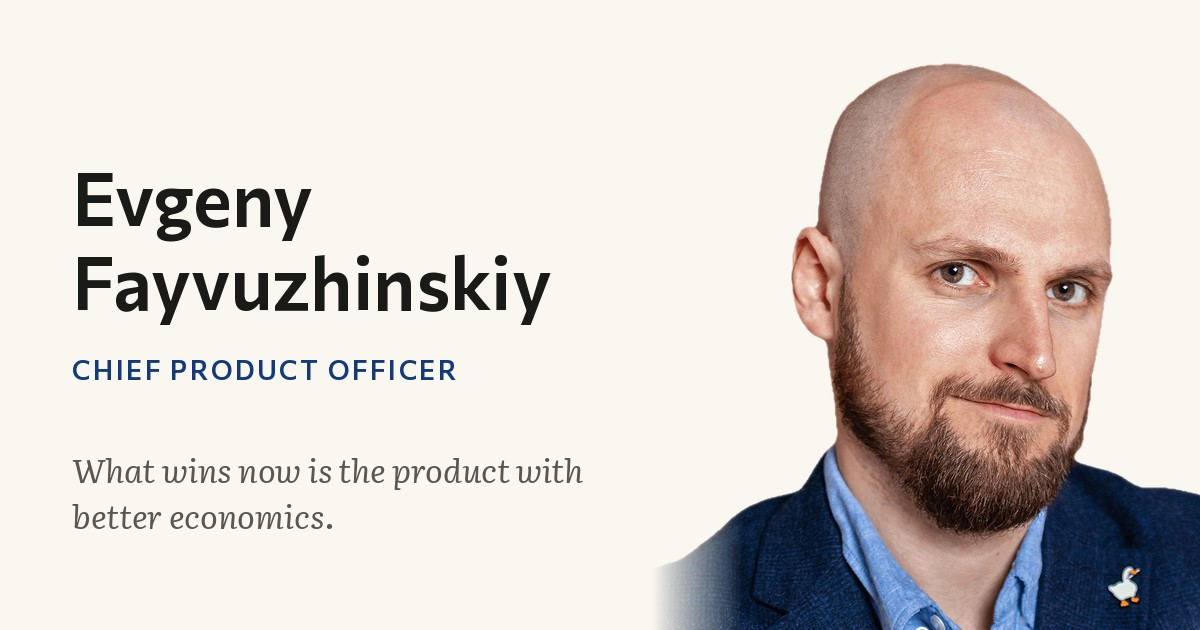
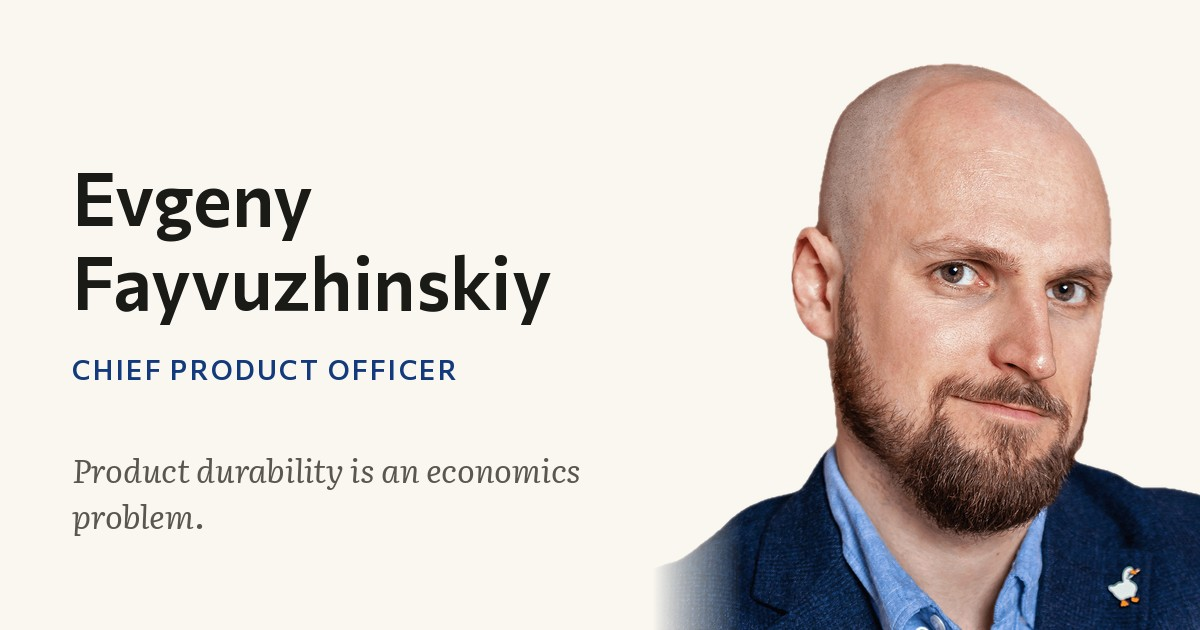
Content + POV + AEO pass: add Point of view, calibrate claims, fix facts
- Add "02 · Point of view" section (forward thesis: product durability =
  an economics problem) — closes the no-direction gap; renumber sections.
- Profile: keystone recalibrated to "I set how the wider company decides
  which bets earn a rigorous test vs a fast, argued call" (originated-the-
  approach; back-channel-safe) + de-listed 5 stacked claims to 3.
- Trajectory CPO: fix "five streams" (named four) -> product end to end
  (5 lifecycle streams + functional teams); "2026" -> "2025 - Now" to match
  LinkedIn; reframe caretaker read into a deliberate judgment call.
- How I lead: recut the business-model principle to stop duplicating the
  new POV block (tune-vs-swap-the-engine judgment).
- JSON-LD: canonical @id + @graph (Person/Organization/WebSite).
- robots.txt: explicit allow for AI retrieval crawlers.
- og.jpg: new tagline "Product durability is an economics problem."

Changed region(s): [[0.0617, 0.7238, 0.4933, 0.8444]]

diff --git a/index.html b/index.html
@@ -190,13 +190,20 @@ footer{margin-top:var(--s9); border-top:1px solid var(--hairline); padding-top:v
     <div class="rail"><span class="num tnum">01</span><h2 class="kicker">Profile</h2></div>
     <div class="content">
       <p>Eight years at <span class="lnum">Space307</span> &mdash; a trading platform for emerging markets across Asia and the Middle East &mdash; I priced the risk and built the monetization function before I ran product. It taught me to read a product through its economics, and to respect how hard the craft under it is.</p>
-      <p>My strongest work is the org. I rebuilt how my department decides: quicker, cheaper, evidence over opinion. I helped the wider company get deliberate about which bets earn rigor and which earn speed. When the call has to come before the data is clean, I make it and own it.</p>
-      <p>I shaped the strategy the company runs on, and I lead by winning over people who don&rsquo;t report to me. The work I&rsquo;m proudest of is the people who outgrew the roles I gave them. I don&rsquo;t confuse motion with progress. I&rsquo;d rather name a hard problem early than paper over it.</p>
+      <p>My strongest work is the org. I rebuilt how my department decides: quicker, cheaper, evidence over opinion. And I set how the wider company now decides which bets earn a rigorous test and which earn a fast, argued call &mdash; rigor where it&rsquo;s measurable, judgment where it isn&rsquo;t. When a call has to come before the data is clean, I make it and put my name on it.</p>
+      <p>I shaped the product strategy the company runs on, and most of what I lead I don&rsquo;t manage &mdash; people follow the argument, not the title. The work I&rsquo;m proudest of is the leads who outgrew the roles I first handed them. I&rsquo;ll name a hard problem early, in plain words, rather than let it sit behind a clean status report.</p>
     </div>
   </section>
 
   <section class="section">
-    <div class="rail"><span class="num tnum">02</span><h2 class="kicker">Trajectory</h2></div>
+    <div class="rail"><span class="num tnum">02</span><h2 class="kicker">Point of view</h2></div>
+    <div class="content">
+      <p>A conviction I build and hire against: product durability is an economics problem before it&rsquo;s a feature problem. In a category like this one &mdash; regulation tightening, growth getting expensive &mdash; the products that last are the ones whose unit economics still work once the easy wins are gone. I&rsquo;d rather get the money model right than repaint the funnel.</p>
+    </div>
+  </section>
+
+  <section class="section">
+    <div class="rail"><span class="num tnum">03</span><h2 class="kicker">Trajectory</h2></div>
     <div class="content">
       <div class="stage">
         <span class="years tnum">2017&ndash;2022</span>
@@ -209,25 +216,25 @@ footer{margin-top:var(--s9); border-top:1px solid var(--hairline); padding-top:v
         <p>Monetization wasn&rsquo;t a function yet. Leadership carved it out and asked me to build it &mdash; I did, from scratch: instrument pricing and risk, partner-network economics, retention, and the team of quants and analysts that runs it today. This is also where I moved from doing the analysis to leading the people who do it, and where I shaped the product strategy the company now runs on.</p></div>
       </div>
       <div class="stage">
-        <span class="years tnum">2026&thinsp;&ndash;&thinsp;Now</span>
+        <span class="years tnum">2025&thinsp;&ndash;&thinsp;Now</span>
         <div><p class="role">Chief Product Officer</p>
-        <p>I own product across five streams &mdash; management, design, research, and monetization &mdash; and sit on the company&rsquo;s management team. My predecessor left a well-built org; I kept its structure and am putting my weight on the operating model: faster, cheaper, evidence-first decisions. I came to the seat from the numbers, so every roadmap review starts in the unit economics.</p></div>
+        <p>I own product end to end &mdash; five delivery streams across the product&rsquo;s lifecycle, plus the functional teams for monetization, design, and research &mdash; and sit on the company&rsquo;s management team. The org I inherited was well-built, so I didn&rsquo;t spend my first year reorganizing it; I put my weight where the leverage was &mdash; how it decides. The operating model runs faster and cheaper now, and every roadmap review starts in the unit economics.</p></div>
       </div>
     </div>
   </section>
 
   <section class="section">
-    <div class="rail"><span class="num tnum">03</span><h2 class="kicker">How I lead</h2></div>
+    <div class="rail"><span class="num tnum">04</span><h2 class="kicker">How I lead</h2></div>
     <div class="content">
       <div class="principle"><h3>The constraint is never where it was last quarter.</h3><p>I moved a product org off measuring everything toward fast, cheap, evidence-first bets. When the bottleneck moved from shipping to deciding, I moved it again.</p></div>
       <div class="principle"><h3>The model is a tool, not a verdict.</h3><p>My quant years taught me to read the numbers as evidence, not a ruling. The job is separating the bets that compound in the economics from the ones that just demo well.</p></div>
       <div class="principle"><h3>The people calls are the ones to get right.</h3><p>I make them early and honestly. I treat the person leaving with as much care as the team staying, and own the call plainly instead of hiding behind process.</p></div>
-      <div class="principle"><h3>Think in business models before features.</h3><p>Repainting the funnel isn&rsquo;t strategy. What matters is how the money is actually made, and where regulation is heading. That&rsquo;s what tells you when to swap the engine and when to tune it.</p></div>
+      <div class="principle"><h3>Know when to tune the engine and when to swap it.</h3><p>Most of the work is tuning how the money gets made. The judgment that earns its keep is spotting early &mdash; from where regulation and the market are heading &mdash; the moment tuning stops paying and the engine itself has to change.</p></div>
     </div>
   </section>
 
   <section class="section">
-    <div class="rail"><span class="num tnum">04</span><h2 class="kicker">Contact</h2></div>
+    <div class="rail"><span class="num tnum">05</span><h2 class="kicker">Contact</h2></div>
     <div class="content">
       <div class="contact">
         <span class="ci"><svg viewBox="0 0 24 24" aria-hidden="true"><path d="M19 3a2 2 0 0 1 2 2v14a2 2 0 0 1-2 2H5a2 2 0 0 1-2-2V5a2 2 0 0 1 2-2h14m-.5 15.5v-5.3a3.26 3.26 0 0 0-3.26-3.26c-.85 0-1.84.52-2.32 1.3v-1.11h-2.79v8.37h2.79v-4.93c0-.77.62-1.4 1.39-1.4a1.4 1.4 0 0 1 1.4 1.4v4.93h2.79M6.88 8.56a1.68 1.68 0 0 0 1.68-1.68c0-.93-.75-1.69-1.68-1.69a1.69 1.69 0 0 0-1.69 1.69c0 .93.76 1.68 1.69 1.68m1.39 9.94v-8.37H5.5v8.37h2.77z"/></svg><a href="https://www.linkedin.com/in/evgeny-fayvuzhinskiy/">linkedin.com/in/evgeny-fayvuzhinskiy</a></span>
@@ -244,7 +251,11 @@ footer{margin-top:var(--s9); border-top:1px solid var(--hairline); padding-top:v
 </main>
 
 <script type="application/ld+json">
-{"@context":"https://schema.org","@type":"Person","name":"Evgeny Fayvuzhinskiy","alternateName":["Евгений Файвужинский","Evgenii Faivuzhinskii","Evgeny Faivuzhinskiy","Yevgeny Fayvuzhinskiy"],"jobTitle":"Chief Product Officer","description":"Chief Product Officer at Space307, a global trading platform serving emerging markets. A product executive who came up the quantitative side of fintech and reads product through its economics.","image":"https://euf.github.io/headshot.png","worksFor":{"@type":"Organization","name":"Space307"},"alumniOf":[{"@type":"CollegeOrUniversity","name":"European University at St. Petersburg"},{"@type":"CollegeOrUniversity","name":"HSE University"}],"knowsAbout":["product management","monetization","product economics","pricing","unit economics","risk modeling","trading products","retention","organizational design"],"url":"https://euf.github.io","address":{"@type":"PostalAddress","addressLocality":"Limassol","addressCountry":"CY"},"sameAs":["https://www.linkedin.com/in/evgeny-fayvuzhinskiy/"]}
+{"@context":"https://schema.org","@graph":[
+{"@type":"Person","@id":"https://euf.github.io/#person","name":"Evgeny Fayvuzhinskiy","alternateName":["Евгений Файвужинский","Evgenii Faivuzhinskii","Evgeny Faivuzhinskiy","Yevgeny Fayvuzhinskiy"],"jobTitle":"Chief Product Officer","description":"Chief Product Officer at Space307, a global trading platform serving emerging markets. A product executive who came up the quantitative side of fintech and reads product through its economics.","image":"https://euf.github.io/headshot.png","worksFor":{"@id":"https://euf.github.io/#space307"},"alumniOf":[{"@type":"CollegeOrUniversity","name":"European University at St. Petersburg"},{"@type":"CollegeOrUniversity","name":"HSE University"}],"knowsAbout":["product management","monetization","product economics","pricing","unit economics","risk modeling","trading products","retention","organizational design"],"url":"https://euf.github.io/","address":{"@type":"PostalAddress","addressLocality":"Limassol","addressCountry":"CY"},"sameAs":["https://www.linkedin.com/in/evgeny-fayvuzhinskiy/"]},
+{"@type":"Organization","@id":"https://euf.github.io/#space307","name":"Space307"},
+{"@type":"WebSite","@id":"https://euf.github.io/#website","url":"https://euf.github.io/","name":"Evgeny Fayvuzhinskiy","author":{"@id":"https://euf.github.io/#person"},"about":{"@id":"https://euf.github.io/#person"},"inLanguage":"en"}
+]}
 </script>
 </body>
 </html>

diff --git a/build/make_assets.py b/build/make_assets.py
@@ -203,7 +203,7 @@ def build_og():
         d.text((x, y), ch, font=role_f, fill=ACCENT)
         x += d.textlength(ch, font=role_f) + 2.4
     y += 92
-    for line in wrap(d, "What wins now is the product with better economics.", tag_f, 560):
+    for line in wrap(d, "Product durability is an economics problem.", tag_f, 560):
         d.text((PADX, y), line, font=tag_f, fill=MUTED)
         y += 46
 
